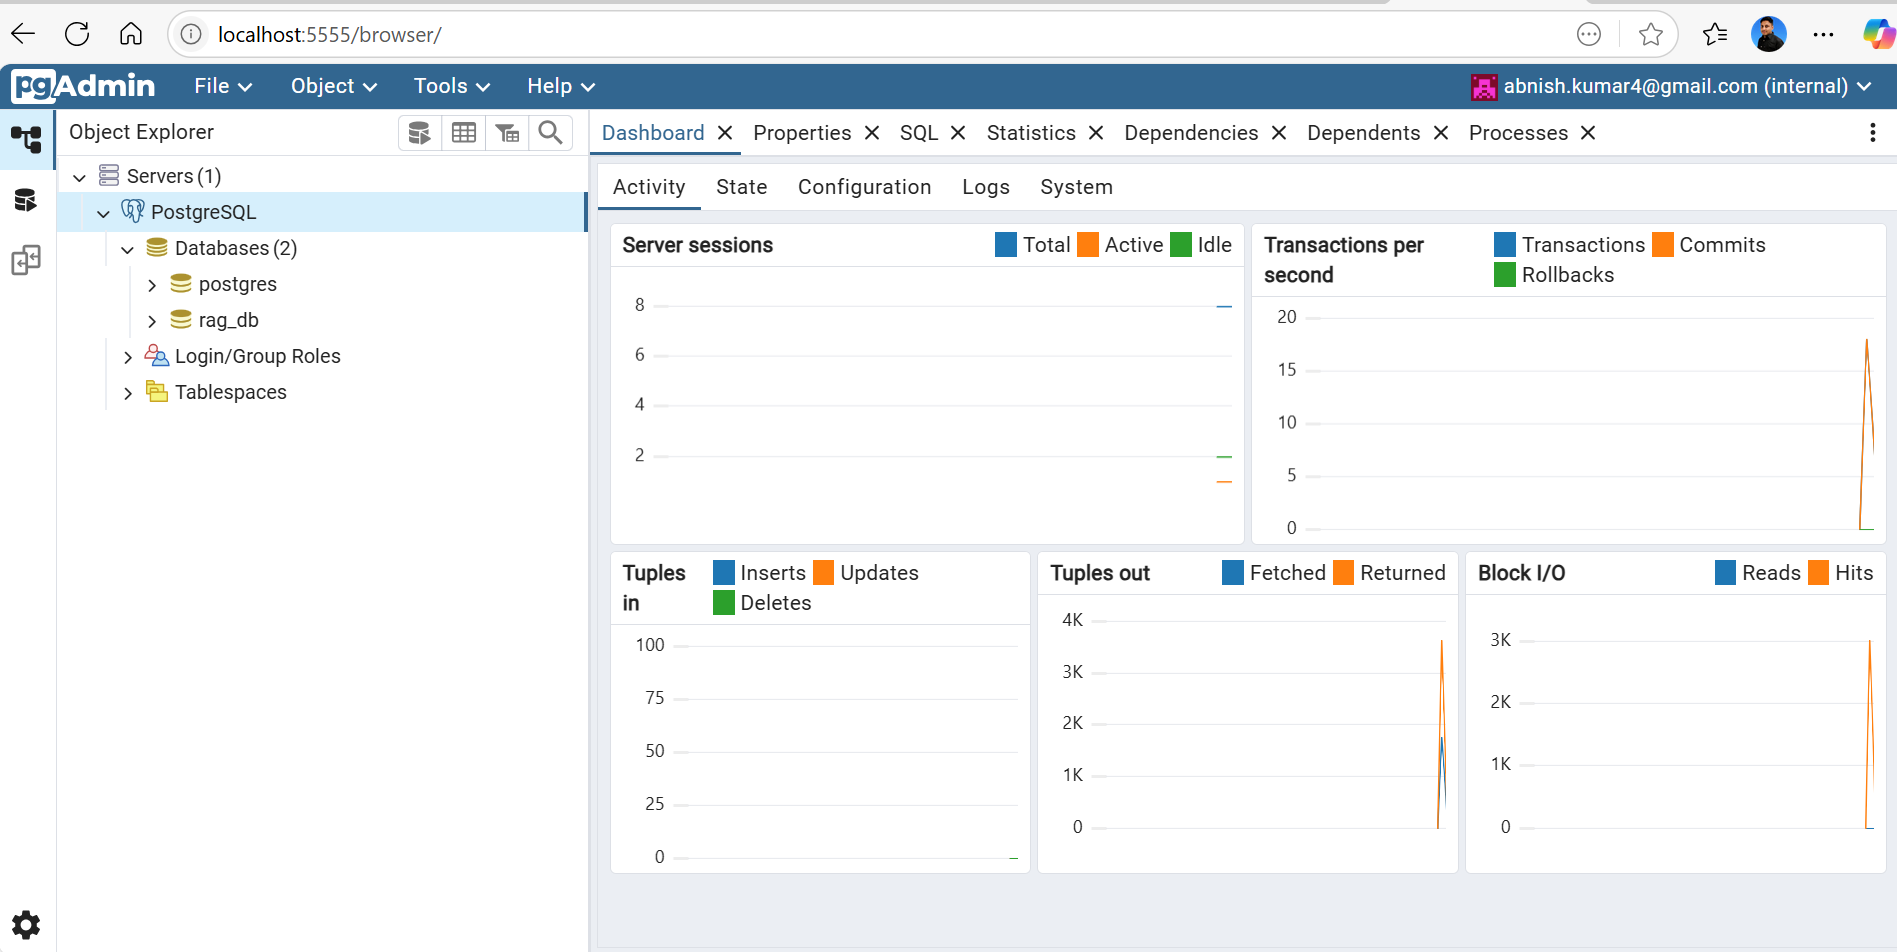
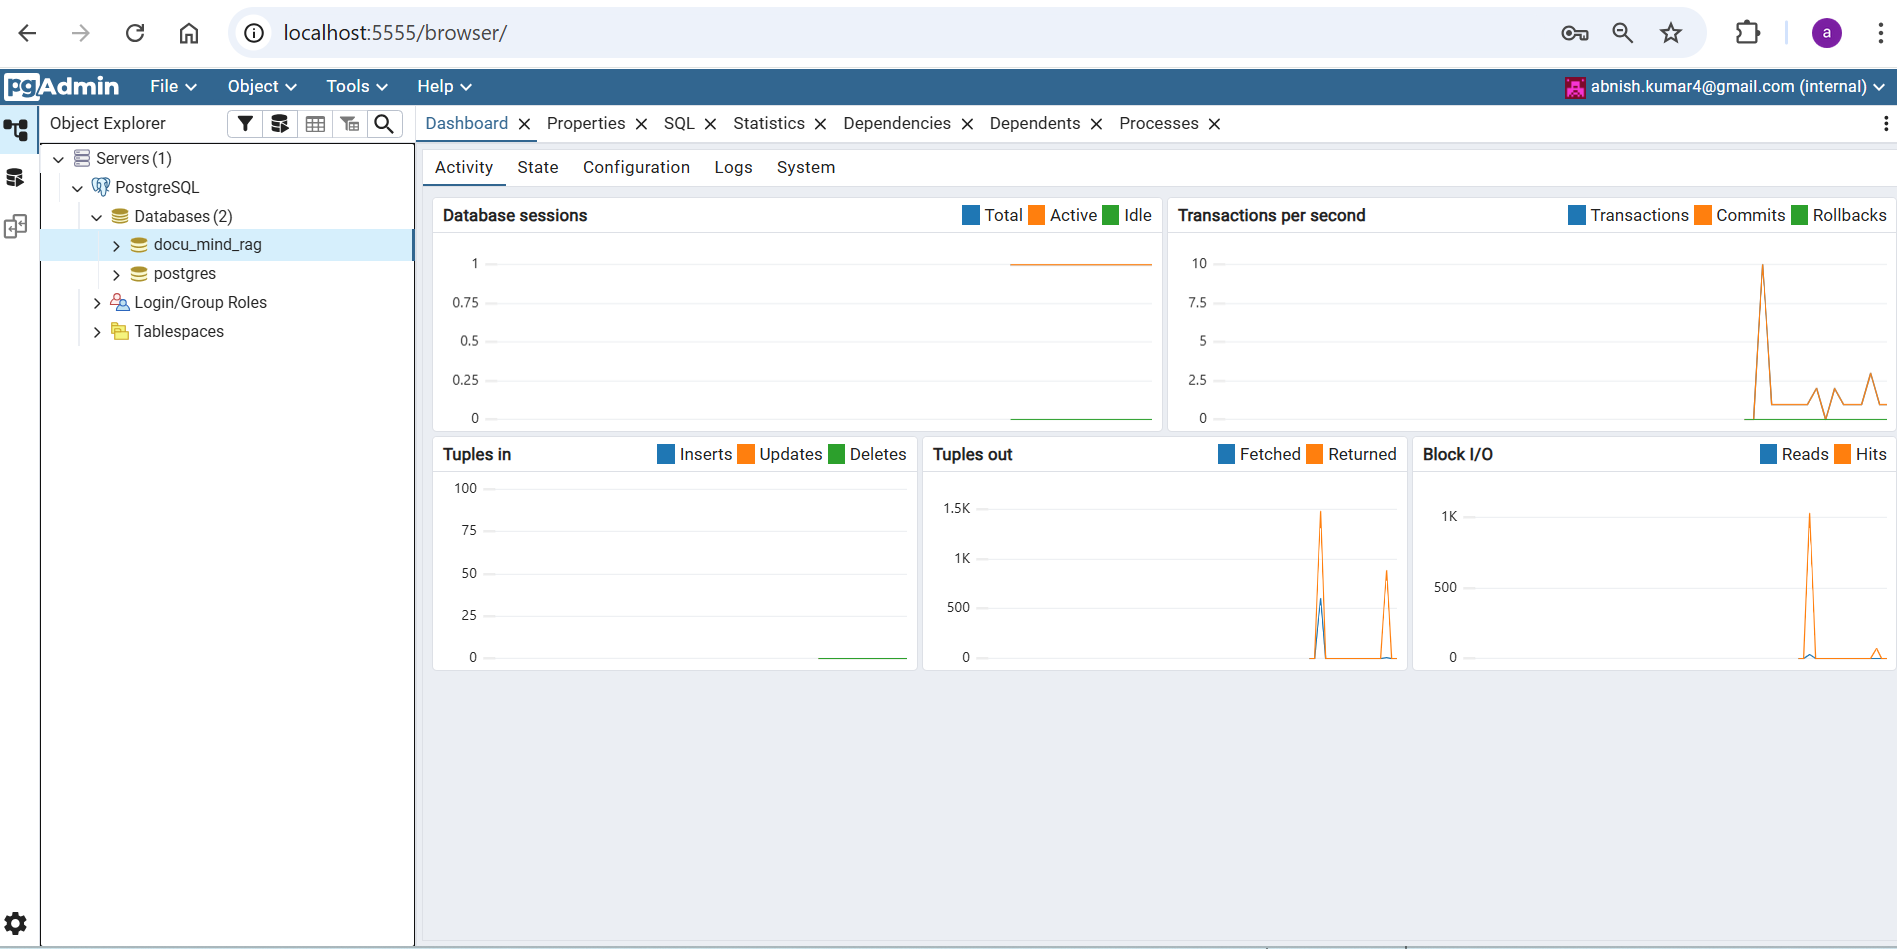
updated image files

diff --git a/README.md b/README.md
@@ -31,7 +31,7 @@ Create a `.env` file in the root of your project (same directory as `docker-comp
 # PostgreSQL Database (pgvector enabled)
 POSTGRES_USER=postgres
 POSTGRES_PASSWORD=password
-POSTGRES_DB=rag_db
+POSTGRES_DB=docu_mind_rag
 DB_PORT=5432
 
 # pgAdmin4
@@ -50,7 +50,7 @@ Each file name (without .sql) will become the database name.
 Example:
 
 sql/
-  rag_db.sql   --> Creates database `rag_db` and loads this file
+  docu_mind_rag.sql   --> Creates database `docu_mind_rag` and loads this file
 
 If no .sql files are present, only the default database from .env (POSTGRES_DB) will be created.
 
